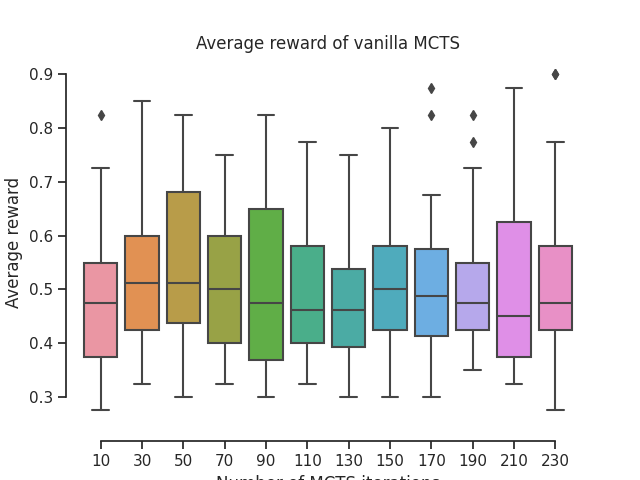
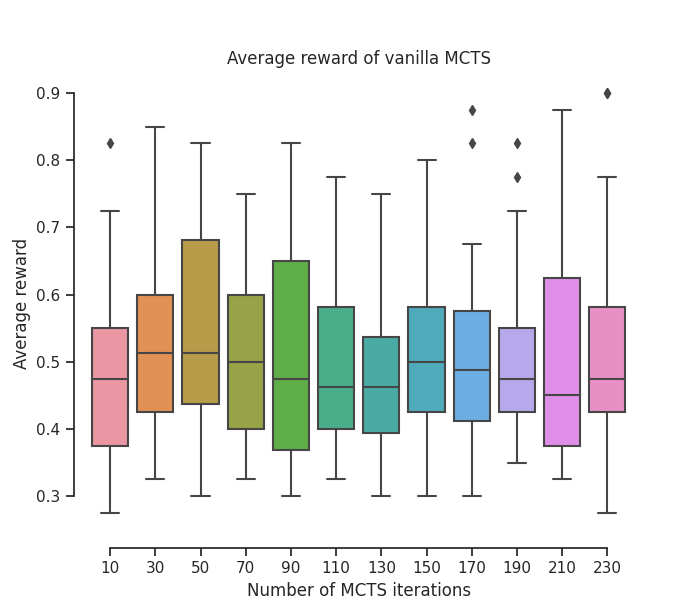
update readme + update vanilla MCTS performance plots

diff --git a/Raw MCTS/Plotting scripts/PlotPerformance_avg_reward.py b/Raw MCTS/Plotting scripts/PlotPerformance_avg_reward.py
@@ -1,6 +1,7 @@
 import numpy as np
 
 from matplotlib import pyplot as plt
+from matplotlib import rcParams
 import pandas as pd
 import seaborn as sns
 
@@ -25,10 +26,13 @@ def main():
         dfs.append(df)
 
     dfs = pd.concat(dfs)
- 
+    
+    rcParams['figure.figsize'] = 7, 6
     ax = sns.boxplot(data=dfs, x="Number of MCTS iterations", y="Average reward")
     ax.set(title='Average reward of vanilla MCTS')
     sns.despine(offset=10, trim=True)
+    
+    
     plt.savefig("./Plots/Vanilla_MCTS_performance_avg_reward.png")
     plt.show()
 

diff --git a/Raw MCTS/Plotting scripts/PlotPerformance_sum_reward.py b/Raw MCTS/Plotting scripts/PlotPerformance_sum_reward.py
@@ -1,6 +1,7 @@
 import numpy as np
 
 from matplotlib import pyplot as plt
+from matplotlib import rcParams
 import pandas as pd
 import seaborn as sns
 
@@ -25,7 +26,8 @@ def main():
         dfs.append(df)
 
     dfs = pd.concat(dfs)
- 
+    
+    rcParams['figure.figsize'] = 7, 6
     ax = sns.boxplot(data=dfs, x="Number of MCTS iterations", y="Sum reward")
     ax.set(title='Sum reward of vanilla MCTS')
     sns.despine(offset=10, trim=True)
